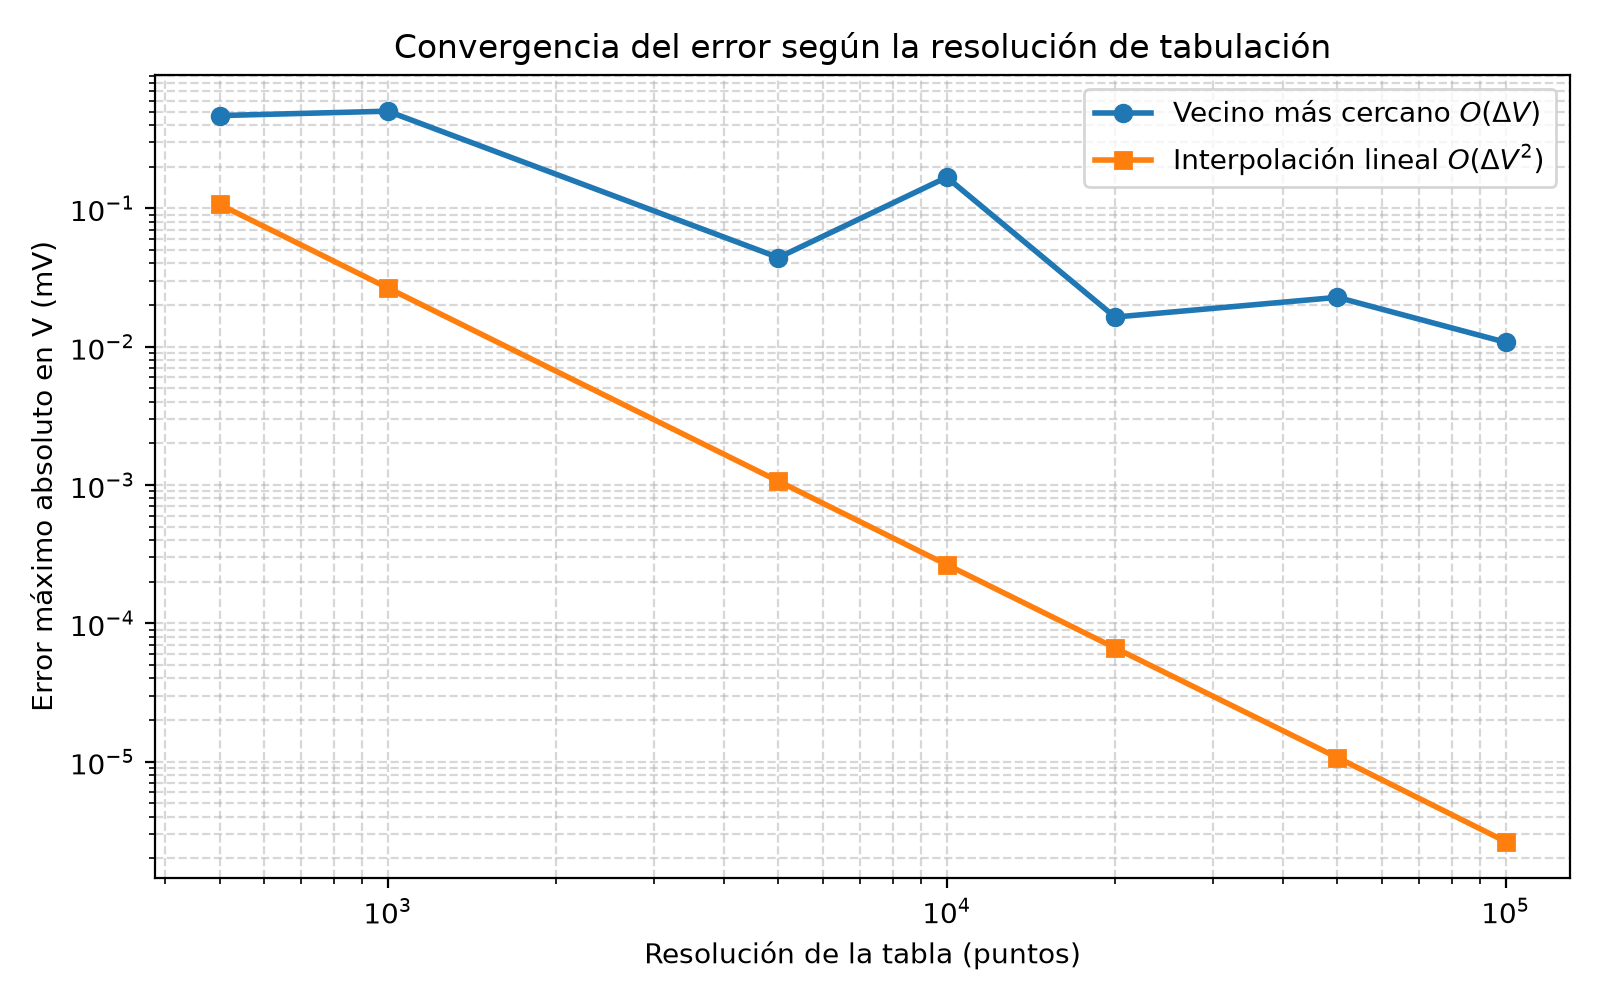
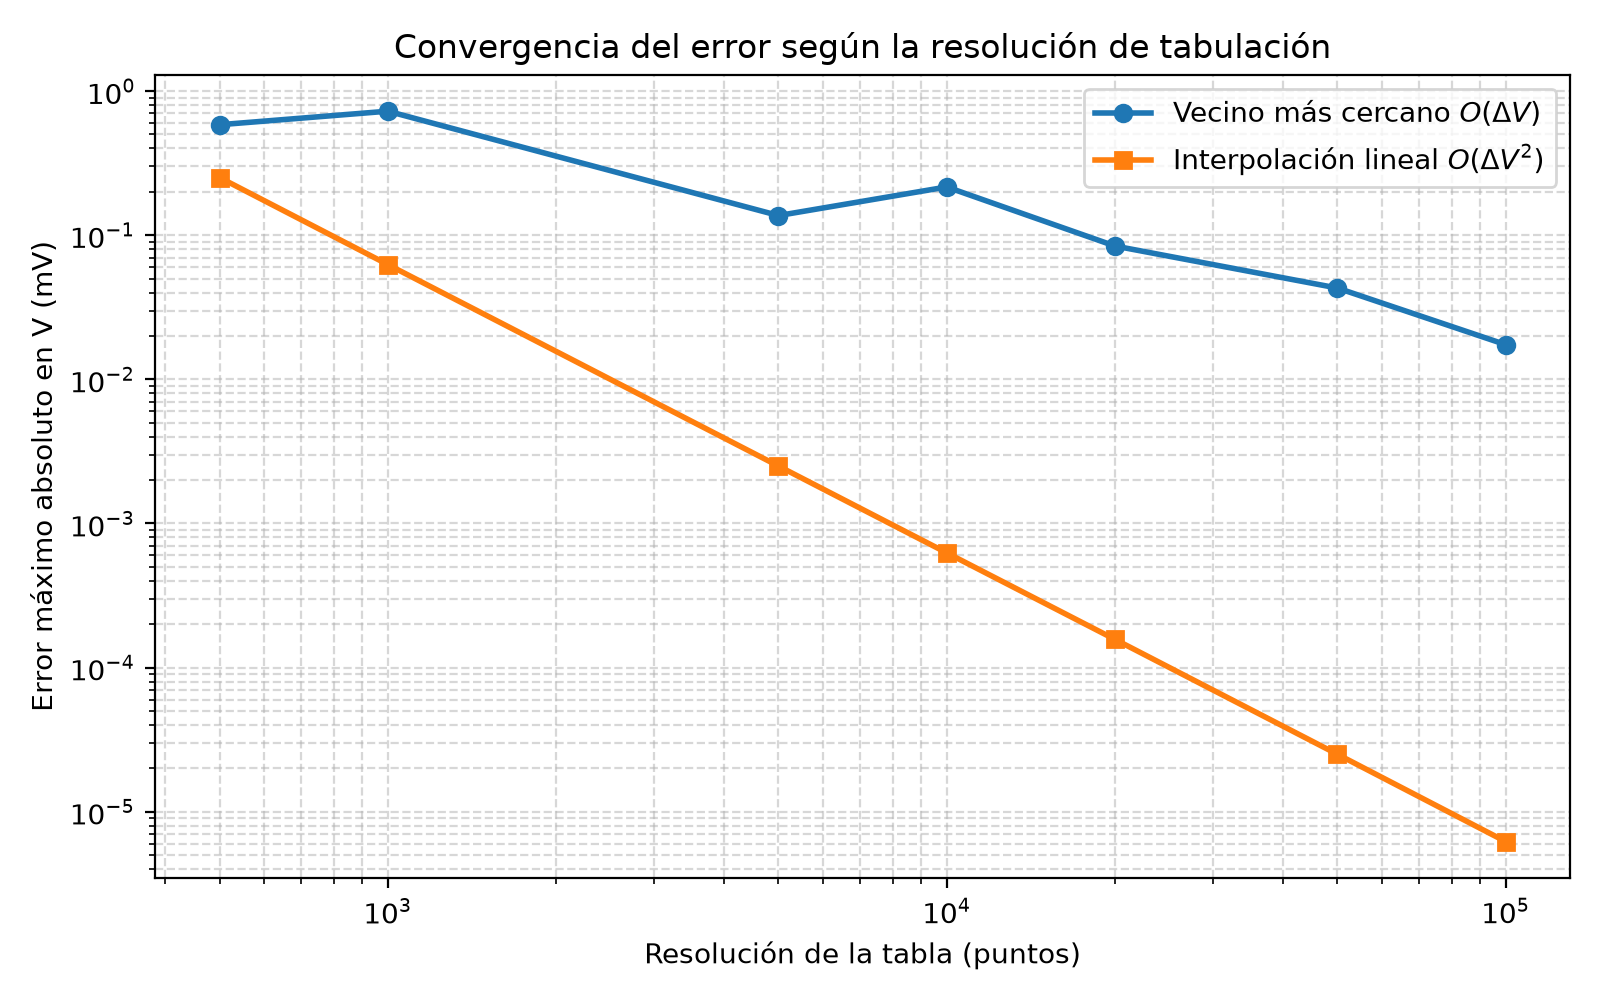
solo he alargado un poco la simulacion

diff --git a/src/tests.py b/src/tests.py
@@ -16,7 +16,7 @@ os.makedirs(output_dir, exist_ok=True)
 resolutions = [500, 1000, 5000, 10000, 20000, 50000, 100000]
 ref_resolution = 10000  # Resolución usada para la comparativa directa de tiempos
 y0 = [-65.0, 0.053, 0.6, 0.318]
-t_span = (0.0, 100.0)
+t_span = (0.0, 150.0)
 dT = 0.01
 n_steps = int(np.round((t_span[1] - t_span[0]) / dT))
 
@@ -66,7 +66,7 @@ def beta_n(V):
 
 @njit(fastmath=True)
 def I_ext_1(t):
-    return 0.1 if 0.0 <= t <= 50.0 else 0.0
+    return 0.1 if 0.0 <= t <= 100.0 else 0.0
 
 
 def make_hh_solver(hh_functions, I_func):
